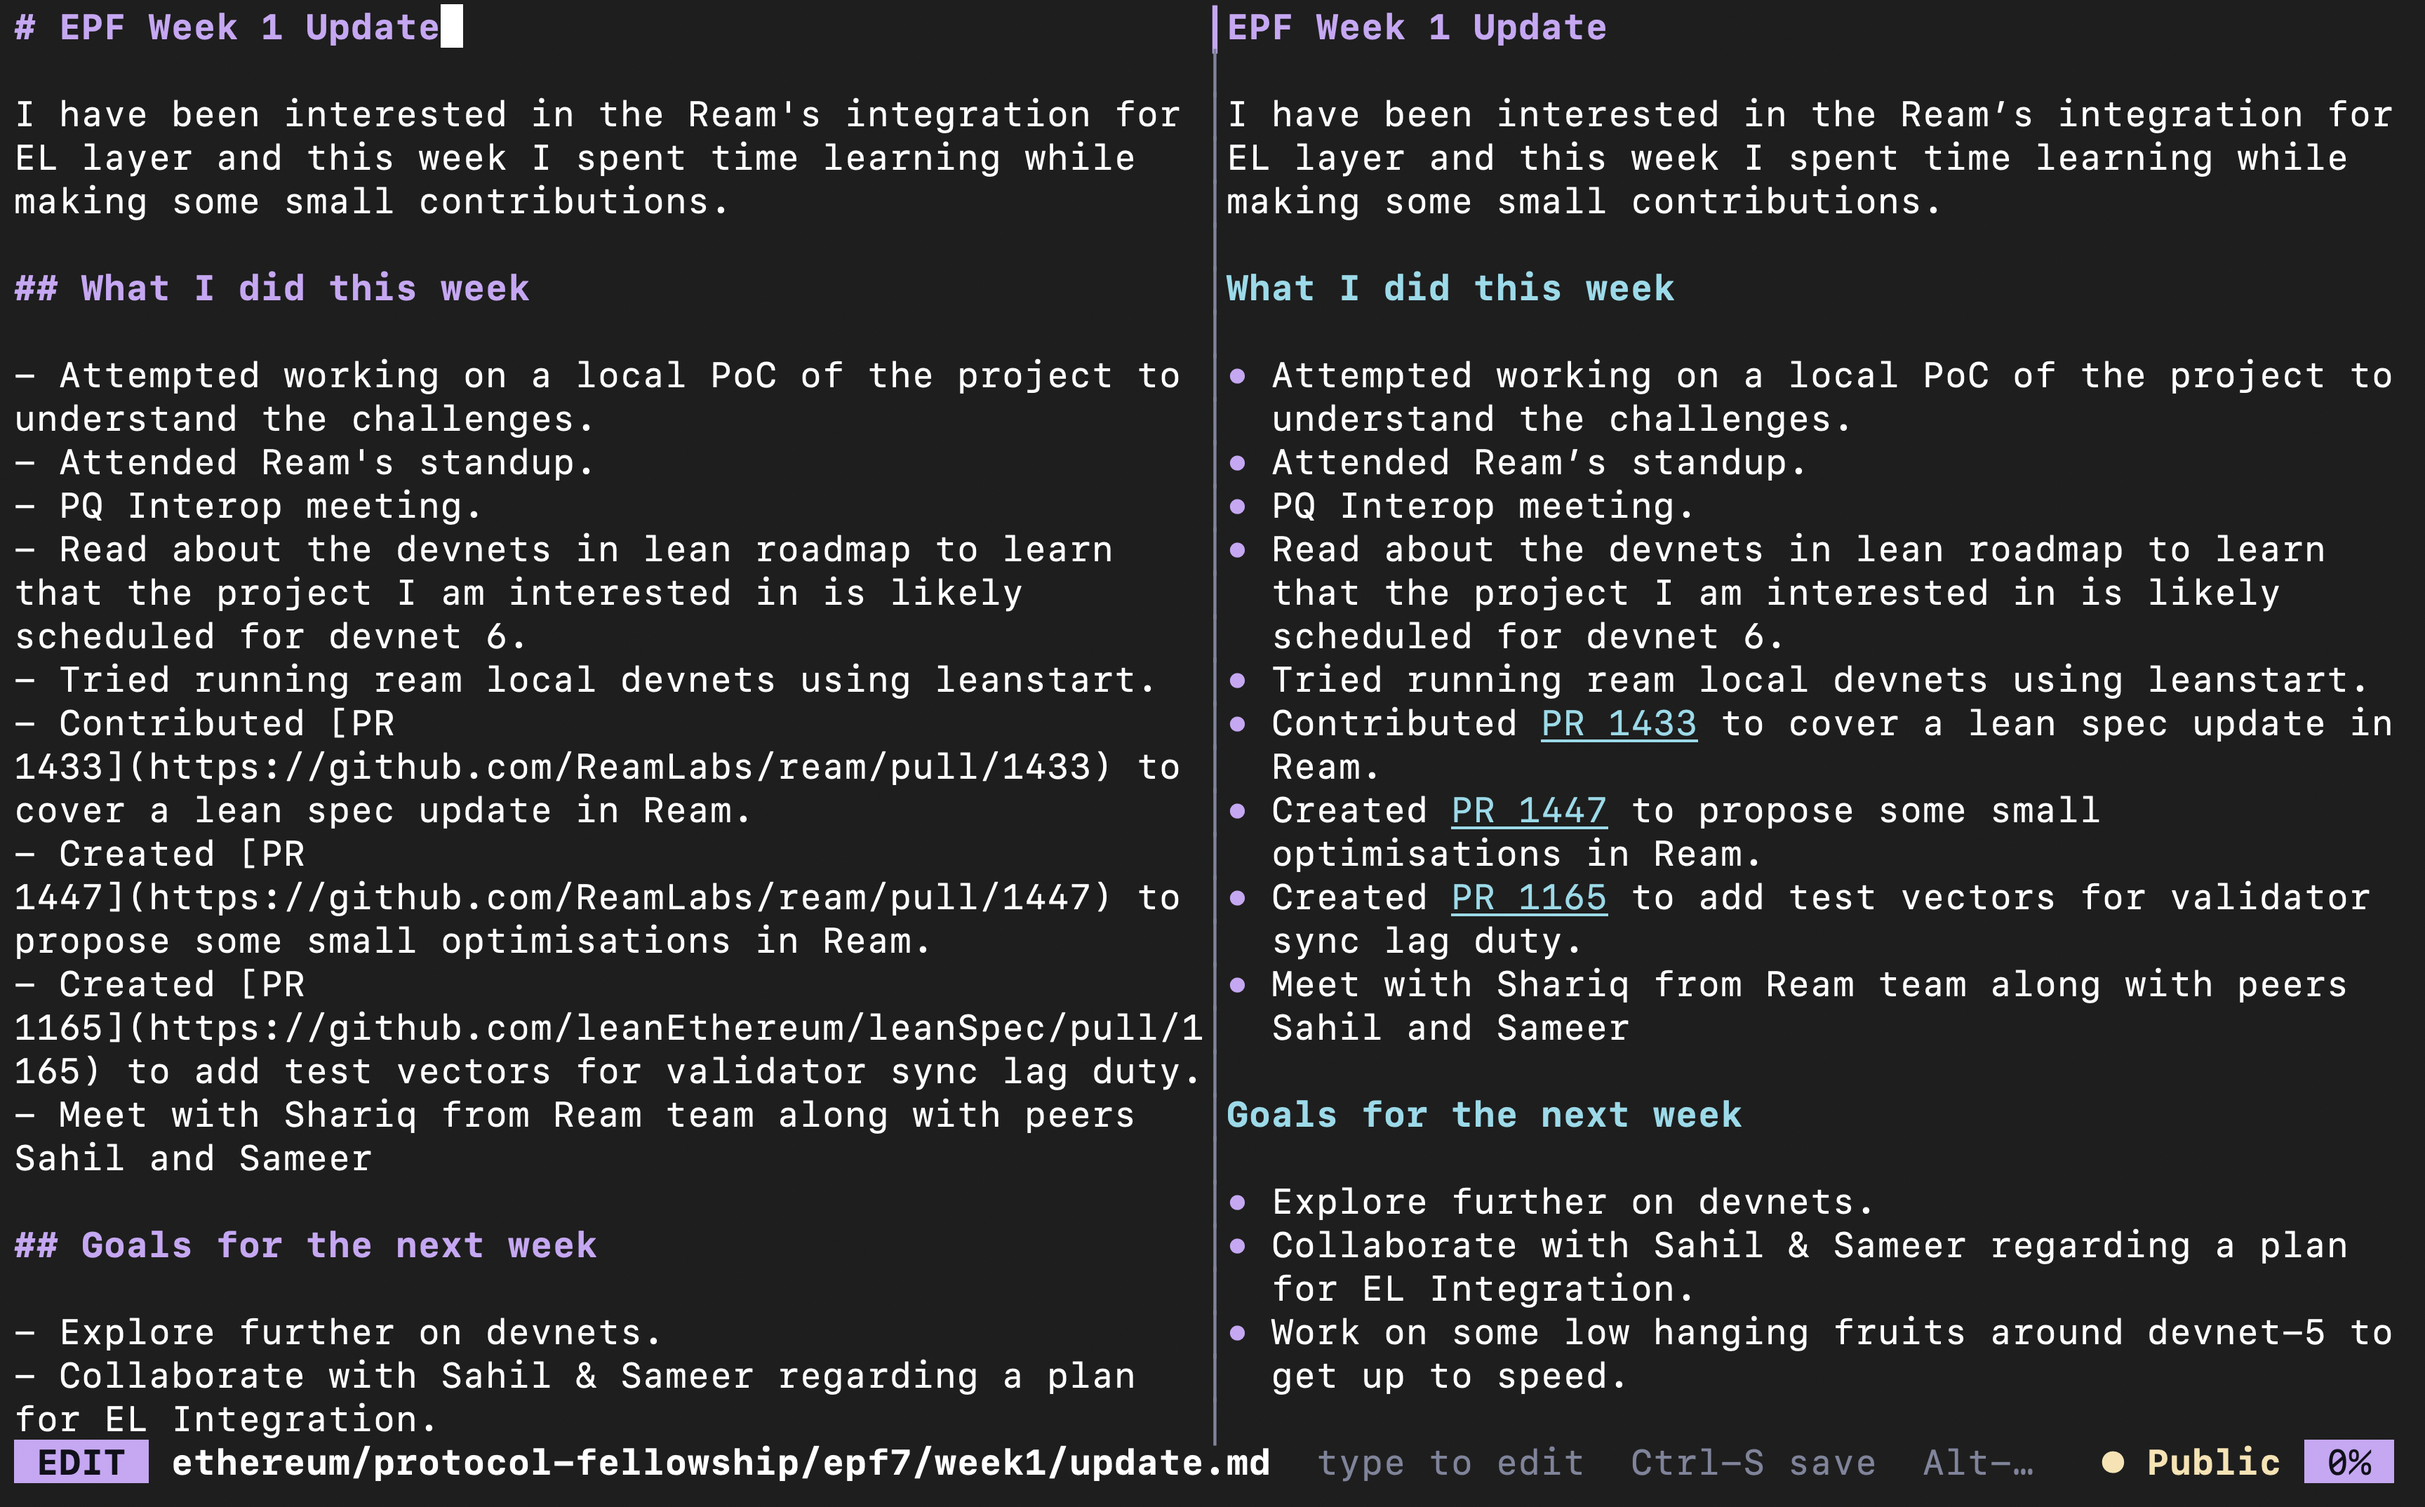
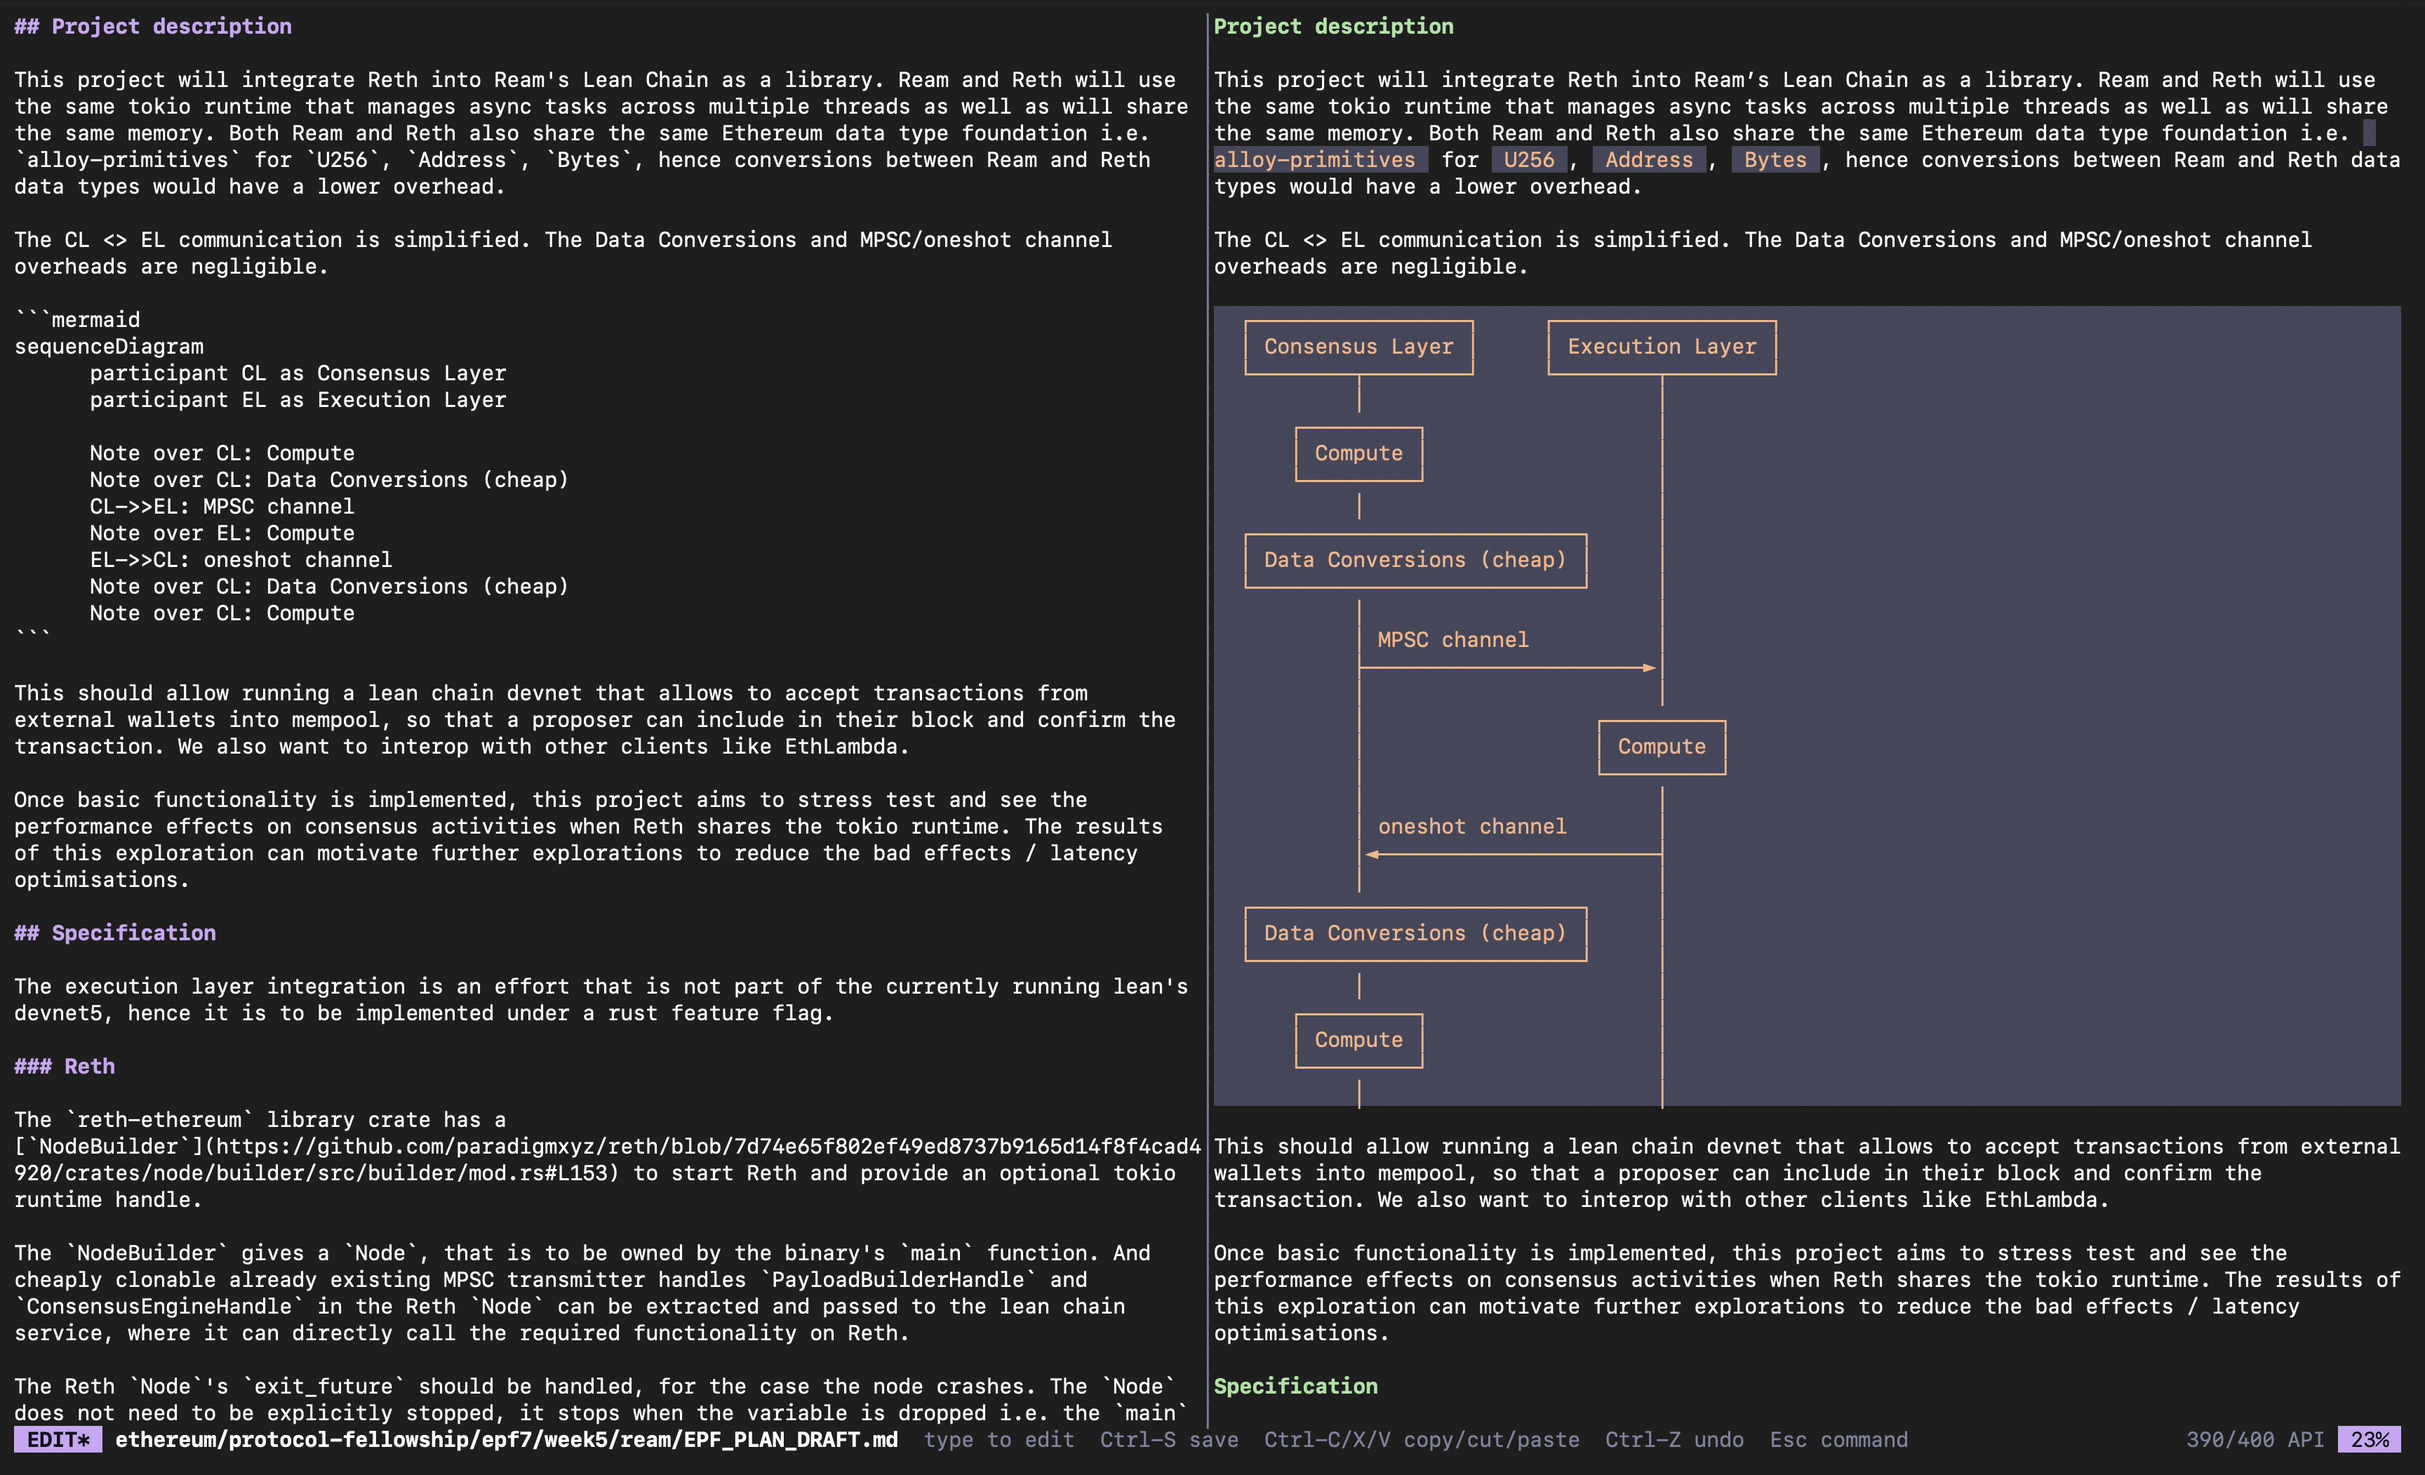
docs: swap the hero screenshot for one showing mermaid rendering
The old hero showed bullets and links, which any markdown viewer does. This
one shows the raw mermaid block on the left and the rendered Unicode-art
sequence diagram on the right, which is the part that is actually distinctive.

diff --git a/README.md b/README.md
@@ -6,7 +6,7 @@
 
 Terminal markdown editor for [HackMD](https://hackmd.io) — plus a full CLI and async Rust SDK.
 
-![Split live-preview editor](https://raw.githubusercontent.com/zemse/hackmd/main/assets/editor-split-view.png)
+![Split live-preview editor with a mermaid diagram rendered as Unicode art](https://raw.githubusercontent.com/zemse/hackmd/main/assets/editor-split-view.png)
 
 ## Install
 
